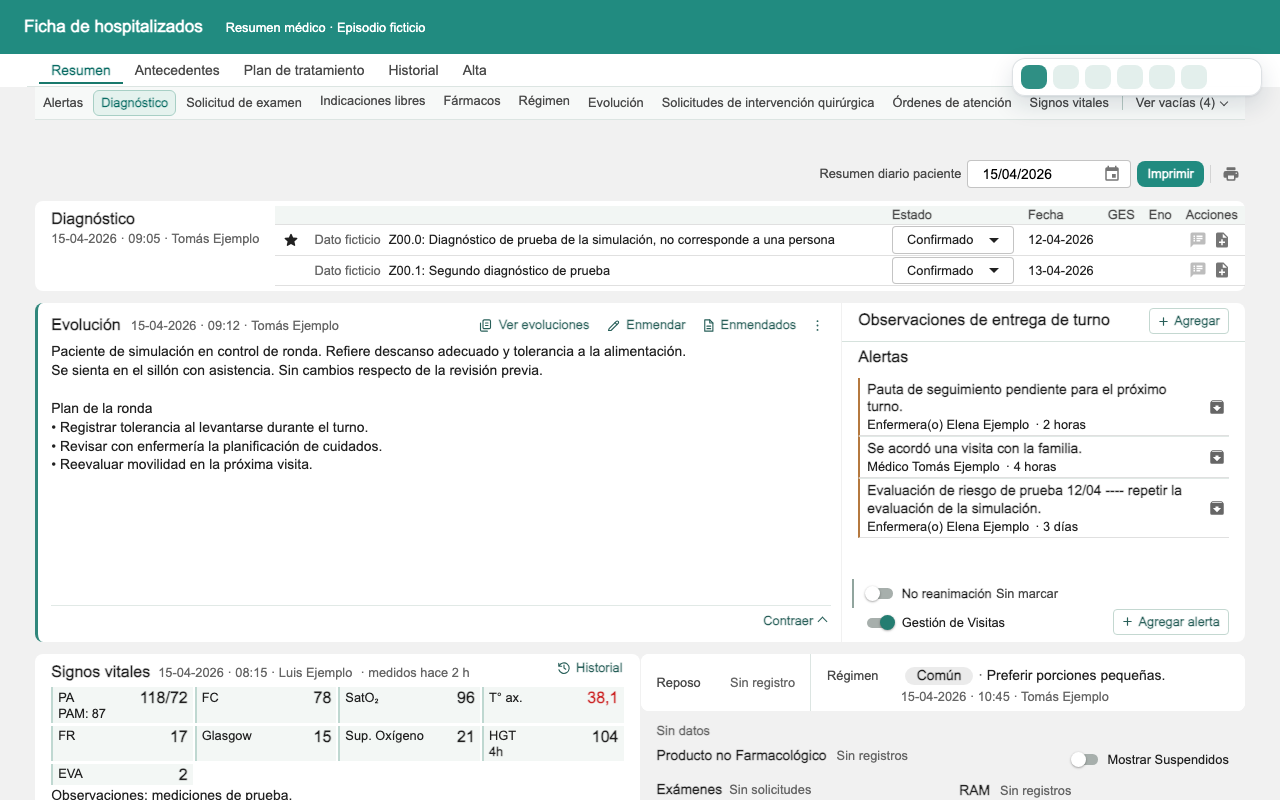
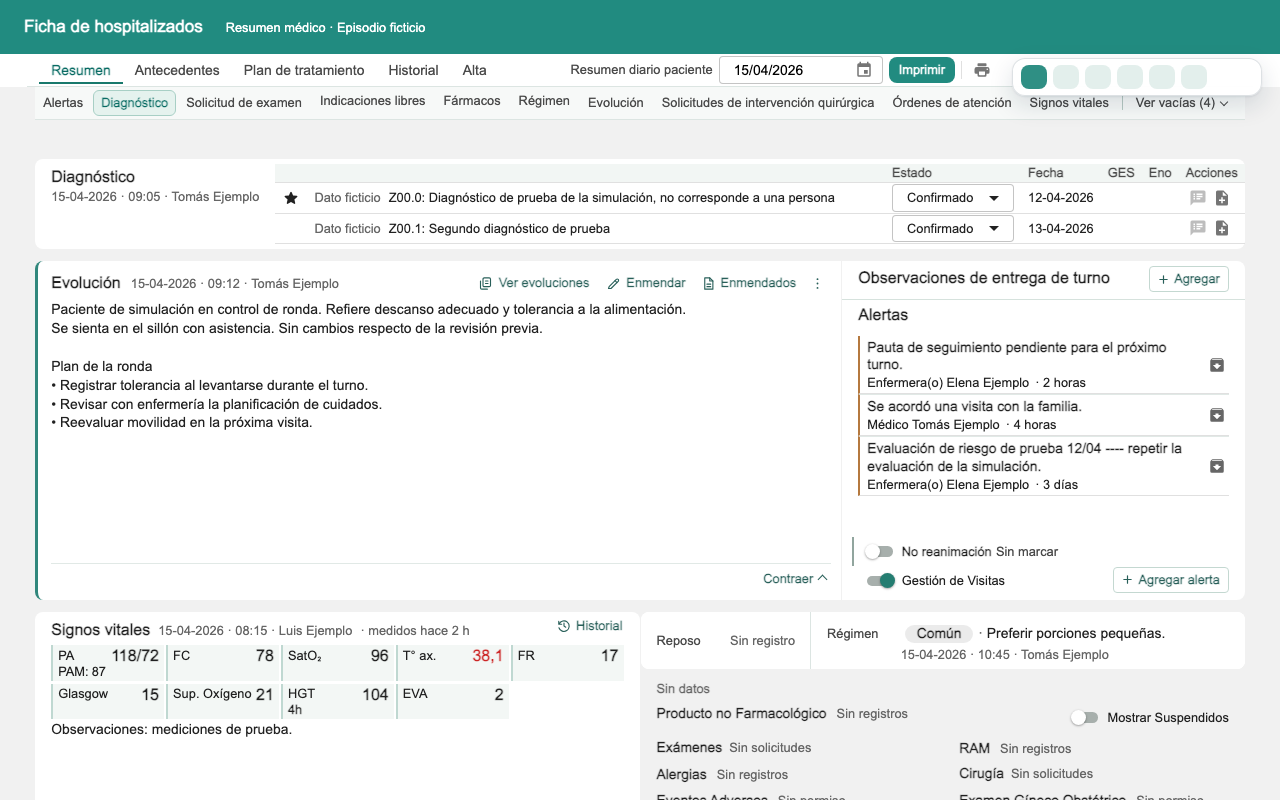
feat: ride the daily row on the tabs line and read every table at one line a row
The page exported on 26-11-2026 showed the daily date and «Imprimir» on a
line of their own with the compact view on: the floating Centro HHR bar
covers the end of the section links, so the row never fitted there. It now
rides at the end of the line of tabs, which has room at every desktop
width, and the round starts where the row was. Where that line is not
fixed, or would paint over the row, the row rides on the section links and
they scroll under it.

Procedimientos, Solicitud interconsulta, Órdenes de atención, Solicitud de
examen and Solicitudes de intervención quirúrgica take the rhythm of
Fármacos: one line a row, the state selector at the height of a line and
«Ver más» at the end of the line it cuts.

The nine vital measurements read as five and four beside the care
instructions; at 1280 px they left one alone on a third row, which the
runtime smoke rejected.

diff --git a/extension/hhr-native-ficha-presentation.js b/extension/hhr-native-ficha-presentation.js
@@ -248,8 +248,8 @@
     const links = new Map();
     let primary = null, row = null, slot = null, style = null;
     let lastTarget = null, frame = 0, disposed = false;
-    // The native date and print row, while it rides on the free end of the section links.
-    let dailyRow = null, docked = false;
+    // The native date and print row, while it rides on the line of tabs or on the section links.
+    let dailyRow = null, docked = false, tabsChecked = false, tabsCovered = false;
     const desktop = globalThis.matchMedia?.('(min-width:1100px)');
     let noteEncounter = null, noteDisclosure = null, keepNoteFolded = false;
     const noteReader = globalThis.HhrFichaNoteReader.create();
@@ -301,11 +301,11 @@
       slot?.style.removeProperty('--hhr-section-height');
       primary = null; row = null; slot = null; lastTarget = null;
     };
-    const dockProperties = ['--hhr-dock-top', '--hhr-dock-right', '--hhr-dock-height'];
+    const dockProperties = ['--hhr-dock-top', '--hhr-dock-right', '--hhr-dock-height', '--hhr-dock-layer'];
     function undock() {
       if (!docked) return;
       docked = false;
-      dailyRow?.removeAttribute('data-hhr-ficha-dock');
+      for (const name of ['data-hhr-ficha-dock', 'data-hhr-ficha-dock-line']) dailyRow?.removeAttribute(name);
       for (const name of dockProperties) dailyRow?.style.removeProperty(name);
       row?.removeAttribute('data-hhr-ficha-docked');
       row?.style.removeProperty('--hhr-dock-width');
@@ -326,14 +326,16 @@
           item.querySelector('table,img,.MuiCard-root,[aria-live],[role="alert"],[role="status"]')) return null;
       return item;
     }
-    // The links never scroll under the docked row: it docks only while everything fits on the line.
+    // On a desktop the daily row has no line of its own. It rides at the end of the line of tabs, the
+    // one line with room at every width: the floating Centro HHR bar covers the end of the section
+    // links. Without room there, or should that line paint over it, it rides on the section line, where
+    // the links scroll under it as they already scroll in a narrow window.
     function positionDailyRow() {
       const fits = () => {
         if (!dailyRow?.isConnected || !row?.isConnected || !desktop?.matches) return null;
         const items = [...row.children].filter(el => el.getClientRects().length);
         const parts = [...dailyRow.children].filter(el => el.getClientRects().length);
         if (!items.length || !parts.length) return null;
-        const linksEnd = items.at(-1).getBoundingClientRect().right;
         const width = parts.reduce((sum, el) => sum + el.getBoundingClientRect().width, 0) + 8 * (parts.length - 1);
         // The name of the field is read before it while the line has room. Short of it, the row docks
         // without the name rather than give up the line: the field keeps it for a screen reader.
@@ -342,13 +344,30 @@
         const nameWidth = name ? (named ? name.getBoundingClientRect().width : name.scrollWidth) + 6 : 0;
         const whole = named || !name ? width : width + nameWidth;
         const rail = row.getBoundingClientRect();
-        // The floating Centro HHR bar hangs over the end of this line. Stop short of it at every
+        // The floating Centro HHR bar hangs over the end of both lines. Stop short of it at every
         // scroll position: the choice uses horizontal measures only, so scrolling never moves the round.
         const bar = document.getElementById('hhr-clinical-operations-bar');
         const cover = bar?.getClientRects().length ? bar.getBoundingClientRect() : null;
         const limit = cover && cover.left < rail.right && cover.right > rail.left ? Math.min(rail.right, cover.left - 10) : rail.right;
-        const room = needed => items[0].getBoundingClientRect().left >= rail.left - 1 && linksEnd + 28 + needed <= limit;
-        return room(whole) ? {rail, width:whole, limit, short:false} : name && room(whole - nameWidth) ? {rail, width:whole - nameWidth, limit, short:true} : null;
+        const place = (line, box, end) => {
+          const short = Boolean(name) && end + 28 + whole > limit;
+          const taken = short ? whole - nameWidth : whole;
+          return {line, box, rail, width:taken, limit, short, clear:end + 28 + taken <= limit};
+        };
+        // Only a line of tabs that stays in view: one that scrolls away would take the date with it.
+        const strip = primary?.isConnected && !tabsCovered ? primary.closest('.MuiAppBar-root') || primary : null;
+        const head = strip && /^(fixed|sticky)$/.test(getComputedStyle(strip).position) ? strip : null;
+        const tabs = head ? [...primary.querySelectorAll('[role="tab"]')].filter(el => el.getClientRects().length) : [];
+        if (tabs.length) {
+          const box = head.getBoundingClientRect();
+          const onTabs = place('tabs', box, Math.max(...tabs.map(tab => tab.getBoundingClientRect().right)));
+          const layer = Number.parseInt(getComputedStyle(head).zIndex, 10);
+          if (onTabs.clear && box.height >= 30) return {...onTabs, head, layer:Number.isFinite(layer) ? layer + 1 : null};
+        }
+        // Where the links end with the line at rest: scrolling them sideways never changes the choice.
+        const onLinks = place('sections', rail, items.at(-1).getBoundingClientRect().right + row.scrollLeft);
+        // A bar unfolded over nearly the whole line leaves no end to ride on: the row keeps its native place.
+        return limit - onLinks.width - rail.left >= 160 ? onLinks : null;
       };
       const room = fits();
       if (!room) {
@@ -356,22 +375,36 @@
         if (docked) { undock(); round.repack(); }
         return;
       }
-      const values = [room.rail.top + 'px', Math.max(0, document.documentElement.clientWidth - room.limit) + 'px', room.rail.height + 'px'];
-      dockProperties.forEach((name, index) => {
-        if (dailyRow.style.getPropertyValue(name) !== values[index]) dailyRow.style.setProperty(name, values[index]);
-      });
-      const reserved = Math.ceil(room.rail.right - room.limit + room.width + 12) + 'px';
-      if (row.style.getPropertyValue('--hhr-dock-width') !== reserved) row.style.setProperty('--hhr-dock-width', reserved);
-      const mode = room.short ? 'short' : '';
-      if (docked) {
-        if (dailyRow.getAttribute('data-hhr-ficha-dock') !== mode) dailyRow.setAttribute('data-hhr-ficha-dock', mode);
-        return;
-      }
+      const set = (element, name, value) => {
+        if (value === null) element.style.removeProperty(name);
+        else if (element.style.getPropertyValue(name) !== value) element.style.setProperty(name, value);
+      };
+      const attr = (element, name, value) => {
+        if (value === null) element.removeAttribute(name);
+        else if (element.getAttribute(name) !== value) element.setAttribute(name, value);
+      };
+      const onLinks = room.line === 'sections';
+      set(dailyRow, '--hhr-dock-top', room.box.top + 'px');
+      set(dailyRow, '--hhr-dock-right', Math.max(0, document.documentElement.clientWidth - room.limit) + 'px');
+      set(dailyRow, '--hhr-dock-height', room.box.height + 'px');
+      set(dailyRow, '--hhr-dock-layer', room.layer ? String(room.layer) : null);
+      // Only the section links make room: the tabs never reach the end of their line. The room is the
+      // row with its own edges and the space a link keeps from it.
+      set(row, '--hhr-dock-width', onLinks ? Math.ceil(room.rail.right - room.limit + room.width + 28) + 'px' : null);
+      attr(row, 'data-hhr-ficha-docked', onLinks ? '' : null);
+      attr(dailyRow, 'data-hhr-ficha-dock-line', room.line);
+      attr(dailyRow, 'data-hhr-ficha-dock', room.short ? 'short' : '');
+      const settled = docked;
       docked = true;
-      dailyRow.setAttribute('data-hhr-ficha-dock', mode);
-      row.setAttribute('data-hhr-ficha-docked', '');
       // The round no longer has a leading line of its own.
-      round.repack();
+      if (!settled) round.repack();
+      // Eloísa could give the line of tabs a layer of its own. If that line paints over the date, the
+      // row leaves it for good: it is checked once, and never while a dialog covers the page.
+      if (room.line !== 'tabs' || tabsChecked || document.querySelector('[role="dialog"],.MuiBackdrop-root')) return;
+      tabsChecked = true;
+      const field = dailyRow.querySelector('form input'), spot = field?.getBoundingClientRect();
+      const top = spot && document.elementFromPoint(spot.left + spot.width / 2, spot.top + spot.height / 2);
+      if (top && !dailyRow.contains(top) && room.head.contains(top)) { tabsCovered = true; positionDailyRow(); }
     }
     const positionRow = () => {
       const bounds = slot.getBoundingClientRect();
@@ -491,7 +524,7 @@
       resizeObserver?.observe(slot);
       mark(row, 'data-hhr-ficha-sections'); mark(slot, 'data-hhr-ficha-section-slot');
       const nextDaily = compact ? findDailyRow() : null;
-      if (nextDaily !== dailyRow) { undock(); dailyRow = nextDaily; }
+      if (nextDaily !== dailyRow) { undock(); dailyRow = nextDaily; tabsChecked = tabsCovered = false; }
       // Collapsing or expanding the floating bar changes the room on this line.
       const floating = dailyRow && document.getElementById('hhr-clinical-operations-bar');
       if (floating) resizeObserver?.observe(floating);

diff --git a/extension/hhr-ficha-themes.css b/extension/hhr-ficha-themes.css
@@ -258,23 +258,24 @@
 }
 
 @media screen {
-  /* Procedimientos, Solicitud interconsulta, Solicitud de examen and Solicitudes de intervención quirúrgica
-     with records take the same rhythm: any table of theirs, whatever Eloísa wraps it in. */
+  /* Órdenes de atención, Procedimientos, Solicitud interconsulta, Solicitud de examen and Solicitudes de
+     intervención quirúrgica with records take the rhythm of Fármacos: any table of theirs, whatever Eloísa
+     wraps it in, reads at one line a row, with the tools of a row at the size they have there. */
   html[data-hhr-ficha-theme="compact"] :is(#procedureOrderEntrySection,[data-hhr-reading="care-orders"],#procedureEntrySection,#referralRequestEntrySection,#diagnosisTestEntrySection,#operationTheaterRequestEntrySection) {
     table:not(:is(dialog,[role=dialog],table) *) {
       width:100%; table-layout:auto;
       :is(th,td) {
-        padding:3px 7px !important; height:auto !important;
+        padding:var(--hhr-ficha-cell-y,3px) 7px !important; height:auto !important;
         font-size:.8125rem; line-height:1.35 !important; vertical-align:middle;
       }
-      th { padding-block:2px !important; font-size:.75rem; }
+      th { font-size:.75rem; }
       tr { height:auto !important; }
       :is(p,.MuiTypography-body1,.MuiTypography-body2) { margin-block:0; font-size:inherit; line-height:inherit; }
       [data-hhr-reading="narrow"] { width:1%; white-space:nowrap; }
-      td .MuiIconButton-root { padding:4px !important; min-width:28px; min-height:28px; }
+      td .MuiIconButton-root { padding:4px !important; min-width:24px; min-height:24px; }
       td .MuiIconButton-root svg { width:16px; height:16px; }
-      td :is(.MuiSelect-select,select:not([multiple],[size])) { padding-block:4px !important; min-height:24px; font-size:.8125rem; }
-      td .MuiInputBase-root:has(.MuiSelect-select) { height:auto !important; min-height:28px; }
+      td :is(.MuiSelect-select,select:not([multiple],[size])) { padding-block:3px !important; min-height:20px; font-size:.8125rem; }
+      td .MuiInputBase-root:has(.MuiSelect-select) { height:auto !important; min-height:26px; }
       td .MuiFormControl-root { margin-block:0; }
     }
   }
@@ -358,17 +359,33 @@
       /* A screen reader hears Eloísa's label and then this state, as it is seen. */
       &:has(> .MuiTypography-root:last-child:empty) > .MuiTypography-root:first-child::after { content:'Tratamiento sin validar' / 'Tratamiento sin validar'; }
     }
-    /* The state of a diagnosis is a native select. It keeps its arrow and its menu. */
-    #diagnosisEntrySection td .MuiInputBase-root:has([role="combobox"]) {
+    /* The state of a diagnosis, of a procedure or of an examination order is a native select. It keeps its
+       arrow and its menu, at the height of a line of its table. */
+    :is(#diagnosisEntrySection,#procedureEntrySection,#diagnosisTestEntrySection) td .MuiInputBase-root:has([role="combobox"]) {
       block-size:auto !important; min-block-size:26px; font-size:var(--hhr-ficha-text-body);
       [role="combobox"] { min-block-size:0 !important; padding-block:3px !important; }
+    }
+    /* In Procedimientos and Solicitud de examen it takes the width of its longest state, not a third of the table. */
+    :is(#procedureEntrySection,#diagnosisTestEntrySection) td {
+      .MuiFormControl-root, .MuiInputBase-root { min-inline-size:0 !important; }
+      [role="combobox"] { box-sizing:border-box; min-inline-size:7.5rem !important; padding-inline-start:8px !important; }
+      /* A text Eloísa cuts keeps «Ver más» at the end of its own line, as the last word would be: the row
+         stays one line high until it is opened. */
+      > .MuiBox-root:has(> .MuiBox-root > button[data-hhr-note-disclosure]:only-child) {
+        display:flex; align-items:baseline; gap:2px 6px; min-inline-size:0;
+        > .MuiTypography-root { display:block !important; flex:0 1 auto; min-inline-size:0; }
+        > .MuiBox-root { flex:none; margin-inline-start:auto; }
+        &:has(button[data-hhr-note-disclosure="more"]) > .MuiTypography-root { overflow:hidden; white-space:nowrap; text-overflow:ellipsis; }
+        /* Open, the whole text is read and «Ver menos» closes it from the end of its last line. */
+        &:has(button[data-hhr-note-disclosure="less"]) { align-items:last baseline; }
+      }
     }
   }
 }
 
 @media screen and (min-width:1100px) {
   html[data-hhr-ficha-theme="compact"] [data-hhr-ficha-sections] {
-    align-items:center; column-gap:2px; background:#f7f9f8;
+    align-items:center; column-gap:2px; background:var(--hhr-ficha-rail);
     [data-hhr-ficha-link] {
       box-sizing:border-box; padding-block:2px; border-radius:6px; line-height:20px !important;
       &[aria-current="location"] { border-color:#a8cfc5; background:#e5f2ee; color:var(--hhr-ficha-focus) !important; }
@@ -432,21 +449,28 @@
   }
 }
 
-/* With room after the last section link, the daily date and its print action ride on that
-   line and stay in view while the summary scrolls. The row keeps its native place otherwise. */
+/* The daily date and its print action stay in view while the summary scrolls: the row has no line
+   of its own. It rides at the end of the line of tabs, beside the floating Centro HHR bar. Should
+   that line have no room, it rides on the section links: they scroll under it and the last of them
+   still stops clear of it. */
 @media screen and (min-width:1100px) {
   html[data-hhr-ficha-theme="compact"] [data-hhr-ficha-sections][data-hhr-ficha-docked] {
-    padding-inline-end:var(--hhr-dock-width) !important;
+    padding-inline-end:var(--hhr-dock-width) !important; scroll-padding-inline-end:var(--hhr-dock-width);
   }
   html[data-hhr-ficha-theme="compact"] [data-hhr-ficha-section-slot] + [data-hhr-round="frame"] > .MuiGrid-item[data-hhr-round="before"][data-hhr-ficha-dock] {
     position:fixed !important; z-index:26;
     /* An out-of-flow item would otherwise be the last stop of the round for the Tab key. */
     reading-order:-1;
     inset-block-start:var(--hhr-dock-top); inset-inline-end:var(--hhr-dock-right);
-    box-sizing:border-box; block-size:var(--hhr-dock-height); min-height:0 !important;
+    /* The line keeps its lower rule under the row. */
+    box-sizing:border-box; block-size:calc(var(--hhr-dock-height) - 1px); min-height:0 !important;
     inline-size:max-content !important; max-inline-size:none !important;
     display:flex !important; align-items:center; justify-content:flex-end; gap:8px;
-    margin:0 !important; padding:0 6px 0 0 !important; background:transparent;
+    /* It is the end of the line: a link that scrolls there goes under it, behind a soft edge. */
+    margin:0 !important; padding:0 6px 0 10px !important; background:var(--hhr-ficha-rail);
+    box-shadow:-10px 0 8px -4px var(--hhr-ficha-rail), 10px 0 0 var(--hhr-ficha-rail);
+    /* On the line of tabs nothing scrolls under it: it takes that line's surface and paints above it. */
+    &[data-hhr-ficha-dock-line="tabs"] { z-index:var(--hhr-dock-layer,26); background:transparent; box-shadow:none; }
     > [data-hhr-update-label] { margin:0 !important; white-space:nowrap; }
     > :not([data-hhr-update-label]) { display:inline-flex; align-items:center; gap:6px; }
   }

diff --git a/extension/hhr-ficha-round-layout.css b/extension/hhr-ficha-round-layout.css
@@ -214,6 +214,12 @@
           &:has(label) { grid-column:span 6; }
         }
         [data-hhr-round="empty-request"] { display:block !important; }
+        /* In half the line the nine measurements read as five and four, never with one left alone on a third row. */
+        @container hhr-round-signs (min-width:36rem) {
+          [data-hhr-round="vitals"] #vitalSignsEntry [data-hhr-reading="vital-grid"]:has(> [data-hhr-reading="vital-tile"]:nth-child(9)) {
+            grid-template-columns:repeat(5,minmax(0,1fr)) !important;
+          }
+        }
         /* A request without records reads on the line of its neighbours. */
         [data-hhr-round="empty-request"] [data-hhr-reading="status-card"] { padding-block:2px !important; background:transparent !important; }
       }

diff --git a/extension/hhr-ficha-tokens.css b/extension/hhr-ficha-tokens.css
@@ -11,6 +11,8 @@ html[data-hhr-ficha-theme] {
   /* Surfaces and the lines that divide them. */
   --hhr-ficha-surface:#fff;
   --hhr-ficha-band:#f2f6f4;
+  /* The line of section links, and whatever rides on it. */
+  --hhr-ficha-rail:#f7f9f8;
   --hhr-ficha-line:#dce5e2;
   --hhr-ficha-line-soft:#e1e9e6;
   /* Colour by role: green for what can be pressed, amber for a clinical flag. A value out of

diff --git a/docs/estructura-eloisa.md b/docs/estructura-eloisa.md
@@ -40,6 +40,8 @@ Títulos de las tarjetas, en ese orden: Fecha estimada de alta, Observaciones de
 
 No hay `input[type=date]`. La fila tiene cuatro controles.
 
+Leída de nuevo el 26-11-2026 con la vista Compacta activa (0.48.199), a 1303 × 970 px: la fila es el primer hijo de la rejilla de la ronda, que sigue al hueco de la línea de secciones, y medía 30 px **en su propia línea**. No había subido a la línea de secciones: la barra flotante de Centro HHR tapa su final y la fila no cabía entre el último enlace y esa barra. Desde la 0.48.201 va en la línea de pestañas.
+
 ### Evolución
 
 - Cabecera: `.MuiCardHeader-content` con título y `.MuiCardHeader-subheader` «Última actualización: dd-mm-aaaa, hh:mm:ss, Médico Nombre»; `.MuiCardHeader-action` con un `div.MuiStack-root > button.MuiIconButton-sizeMedium > svg[data-testid=MoreVertRoundedIcon]`.
@@ -94,6 +96,15 @@ La ficha ficticia las dibuja con la tabla que Eloísa usa en las demás seccione
 - `.MuiCardContent-root > div.MuiPaper-root > div.MuiTableContainer-root > table` con siete columnas: una sin rótulo, Diagnóstico, Estado, Fecha, GES, Eno, Acciones.
 - Fila: `svg[data-testid=StarRoundedIcon]` en el diagnóstico principal; un `div.MuiStack-root` con una etiqueta de dos palabras (`div.MuiBox-root > span.MuiTypography-caption`) y el texto «código: descripción» en otro `span.MuiTypography-caption`; el estado en un selector de MUI (`div[role=combobox]#select-diagnosis-status`, 196 × 40 px, habilitado); la fecha; GES y Eno vacíos; y dos botones pequeños, `SpeakerNotesIcon` («Ver notas», deshabilitado) y `NoteAddIcon` («Agregar notas»).
 
+Sin registros (segunda lectura del 26-11-2026), las cuatro son `section#…EntrySection > div.MuiCard-root#…Entry` con `.MuiCardContent-root > p.MuiTypography-body2`:
+
+- `#procedureEntry`: conserva en su cabecera el interruptor «Mostrar suspendidos» (`label.MuiFormControlLabel-root` dentro de `.MuiCardHeader-action > .MuiStack-root`) y dice «No se presentan procedimientos registrados para este paciente».
+- `#referralRequestEntry`: «No se presentan interconsultas … para este paciente».
+- `#diagnosisTestEntry`: «No presenta solicitudes de examenes registradas», sin tilde.
+- `#operationTheaterRequestEntry`: los tres nodos de texto ya descritos.
+
+Esa lectura fue de un paciente sin procedimientos: la forma de Procedimientos **con registros** sigue sin exportarse.
+
 Sin diagnósticos (26-11-2026), la tarjeta no tiene tabla ni firma: `.MuiCardContent-root > p.MuiTypography-body2` «No se presentan diagnosticos registrados para este paciente», sin tilde.
 
 ### Secciones vacías o sin permiso
@@ -119,7 +130,7 @@ Las filas de Indicaciones Libres llevan las mismas tres acciones que las de Fár
 
 ### Línea de secciones
 
-Doce enlaces `div.MuiGrid-item > span.MuiBadge-root > span.MuiTypography-caption`, en este orden: Alertas, Diagnóstico, Solicitud de examen, Indicaciones (Indicación Libre), Indicaciones (Medicamento), Indicaciones (Régimen), Evolución, Solicitudes de intervención quirúrgica, Procedimientos, Órdenes de atención, Solicitud interconsulta, Signos vitales. **No es el orden de la página.**
+Doce enlaces `div.MuiGrid-item > span.MuiBadge-root > span.MuiTypography-caption`, en este orden: Alertas, Diagnóstico, Solicitud de examen, Indicaciones (Indicación Libre), Indicaciones (Medicamento), Indicaciones (Régimen), Evolución, Solicitudes de intervención quirúrgica, Procedimientos, Órdenes de atención, Solicitud interconsulta, Signos vitales. **No es el orden de la página.** Eloísa muestra solo los de las secciones que el paciente tiene: en la segunda lectura del 26-11-2026 eran siete (Alertas, Indicaciones (Indicación Libre), Indicaciones (Medicamento), Indicaciones (Régimen), Evolución, uno más y Signos vitales).
 
 ## Plan de tratamiento
 

diff --git a/docs/visual/resumen-escritorio/README.md b/docs/visual/resumen-escritorio/README.md
@@ -1,24 +1,33 @@
 # Resumen compacto en escritorio
 
-## Reposo, Régimen y lo que no tiene datos, junto a Signos vitales, en 0.48.201
+## Signos vitales en media línea, la fila diaria fuera de la ficha y tablas a una línea, en 0.48.201
 
-El responsable propuso estrechar el cuadro de Signos vitales y usar el espacio que sobra a su derecha para Reposo, Régimen y las secciones sin datos. En la página real las mediciones ocupan la mitad de su tarjeta.
+El responsable revisó la 0.48.199 en su pantalla y pidió tres cosas. Estrechar el cuadro de Signos vitales y usar el espacio que sobra a su derecha para Reposo, Régimen y las secciones sin datos. Quitar la franja de la fecha del resumen diario e «Imprimir», conservando la impresión. Y que Procedimientos se lea tan compacto como el resto.
 
 | Pantalla | 0.48.200 | 0.48.201 | Página completa |
 | --- | --- | --- | --- |
 | 1280 × 800 | [Antes](0.48.201/antes/1280-resumen.png) | [Después](0.48.201/despues/1280-resumen.png) | [Antes](0.48.201/antes/1280-resumen-completo.png) · [Después](0.48.201/despues/1280-resumen-completo.png) |
 | 1440 × 900 | [Antes](0.48.201/antes/1440-resumen.png) | [Después](0.48.201/despues/1440-resumen.png) | [Antes](0.48.201/antes/1440-resumen-completo.png) · [Después](0.48.201/despues/1440-resumen-completo.png) |
+| 1440 × 900, con registros en todas las secciones | | | [Antes](0.48.201/antes/1440-con-registros-completo.png) · [Después](0.48.201/despues/1440-con-registros-completo.png) |
 
 | Medida a 1440 × 900, 0.48.200 → 0.48.201 | |
 | --- | ---: |
+| Fecha del resumen diario e «Imprimir» | una franja de 30 px sobre la ficha → el final de la línea de pestañas |
+| Inicio de Diagnóstico | 201 → 159 px |
 | Ancho de Signos vitales | toda la línea → su primera mitad |
-| Filas de las nueve mediciones | 1 → 2 |
+| Filas de las nueve mediciones | 1 → 2, cinco y cuatro |
 | Reposo y Régimen | una línea propia bajo Signos → junto a Signos |
 | Grupo «Sin datos» | al final de la ficha, tres por fila → junto a Signos, dos por fila |
-| Alto de la página | 1923 → 1876 px |
-| Inicio de Fármacos | 819 → 865 px |
+| Inicio de Fármacos | 819 → 823 px |
+| Alto de la página | 1923 → 1817 px |
+| Fila de Procedimientos, con y sin selector de estado | 51 → 31 y 28 px |
+| Fila de Solicitud de examen | 46 → 31 px |
+| Fila de Solicitud interconsulta, Órdenes de atención y Solicitudes de intervención quirúrgica | 35 → 28 px |
+| Alto de la página con registros en todas las secciones | 2519 → 2266 px |
 
-La rejilla coloca cada sección sin datos en el primer hueco junto a los signos (`grid-auto-flow: dense`), y `hhr-ficha-round-layout.js` cuenta las líneas que ocupa esa columna para que Signos vitales las abarque. No se mueve ningún nodo.
+**Por qué la fila no subía sola.** La estructura exportada de la página el 26-11-2026 ([`estructura-eloisa.md`](../../estructura-eloisa.md)) mostró la fila en su propia línea de 30 px, con la vista activa y a 1303 px de ancho. La ficha ficticia lo reproduce: la barra flotante de Centro HHR, de 350 px, tapa el final de la línea de secciones, y entre el último enlace y esa barra no caben la fecha y sus dos botones. En la línea de pestañas sí caben, a cualquier ancho desde 1100 px. Ahí la fila deja de contar como línea de la ronda.
+
+La rejilla coloca cada sección sin datos en el primer hueco junto a los signos (`grid-auto-flow: dense`), y `hhr-ficha-round-layout.js` cuenta las líneas que ocupa esa columna para que Signos vitales las abarque. No se mueve ningún nodo: la fila diaria se sitúa con `position: fixed`, como ya hacía en la línea de secciones.
 
 ## Lo vacío junto, las tablas con un ritmo y el Resumen desde arriba, en 0.48.199
 

diff --git a/README.md b/README.md
@@ -10,7 +10,7 @@ una revisión comprobada; su copia de la extensión es una dependencia, no otra 
 
 ## Lectura de la ficha
 
-En escritorio, el resumen compacto se lee en un orden fijo, y cada bloque empieza en el mismo lugar en todos los pacientes. Primero, Diagnóstico. Después Evolución, que muestra siempre catorce líneas: una nota corta deja espacio y en una larga puedes desplazarte dentro del texto con el ratón o el teclado. A su lado, Observaciones de entrega y Alertas terminan en la misma línea que la nota, y la lista de alertas se desplaza dentro de su cuadro. Debajo, Signos vitales ocupa la primera mitad de la línea. A su lado van Reposo y Régimen y, bajo el rótulo «Sin datos», las secciones sin registros o sin permiso, dos por fila, con las solicitudes de examen y cirugía que Eloísa identifica como vacías. Las acciones de la nota llevan su nombre junto al icono: «Ver evoluciones», «Editar», «Enmiendas» y «Pautas». Las indicaciones largas se despliegan dentro de su celda. La fecha del resumen diario e «Imprimir» se sitúan en la línea de los enlaces de sección cuando caben junto a la barra flotante de Centro HHR. El campo se lee con su nombre delante, «Resumen diario paciente», y la fila no muestra quién actualizó el resumen. Si la línea no da para el nombre, la fila se acopla sin él. Una firma que repite la de Evolución o la de la tarjeta anterior se dice una sola vez, igual que la antigüedad común de los signos vitales. [Ver las capturas de escritorio](docs/visual/resumen-escritorio/README.md)
+En escritorio, el resumen compacto se lee en un orden fijo, y cada bloque empieza en el mismo lugar en todos los pacientes. Primero, Diagnóstico. Después Evolución, que muestra siempre catorce líneas: una nota corta deja espacio y en una larga puedes desplazarte dentro del texto con el ratón o el teclado. A su lado, Observaciones de entrega y Alertas terminan en la misma línea que la nota, y la lista de alertas se desplaza dentro de su cuadro. Debajo, Signos vitales ocupa la primera mitad de la línea. A su lado van Reposo y Régimen y, bajo el rótulo «Sin datos», las secciones sin registros o sin permiso, dos por fila, con las solicitudes de examen y cirugía que Eloísa identifica como vacías. Las acciones de la nota llevan su nombre junto al icono: «Ver evoluciones», «Editar», «Enmiendas» y «Pautas». Las indicaciones largas se despliegan dentro de su celda. La fecha del resumen diario e «Imprimir» no ocupan una línea del resumen: van al final de la línea de pestañas, junto a la barra flotante de Centro HHR, y siguen a la vista al desplazar la ficha. El campo se lee con su nombre delante, «Resumen diario paciente», y la fila no muestra quién actualizó el resumen. Si la línea no da para el nombre, la fila se acopla sin él. Donde la línea de pestañas no queda fija o taparía la fila, esta va al final de la línea de enlaces de sección, y los enlaces que no caben se desplazan bajo ella. Una firma que repite la de Evolución o la de la tarjeta anterior se dice una sola vez, igual que la antigüedad común de los signos vitales. [Ver las capturas de escritorio](docs/visual/resumen-escritorio/README.md)
 
 En la columna derecha, «Agregar», junto al título de Observaciones de entrega, y «Agregar alerta» abren el campo de Eloísa. Si ya hay texto, el campo queda visible. En las tablas de tratamiento, una línea acompaña la fila que se recorre con el teclado o el puntero.
 

diff --git a/docs/estilo-ficha.md b/docs/estilo-ficha.md
@@ -17,6 +17,8 @@ Esta guía reúne las reglas con las que se rediseñaron el Resumen compacto, el
 11. **Lo vacío es una línea, y las líneas van juntas.** Una sección sin registros o sin permiso dice su nombre y su estado en una línea, la misma para todas, tenga tabla o no cuando está llena. En la ronda de escritorio esas líneas forman un grupo, bajo «Sin datos», sin superficie propia y con el estado en dos palabras («Sin registros», «Sin solicitudes», «Sin permiso»); la frase de Eloísa sigue en la página. Con signos vitales, el grupo va a su lado, bajo Reposo y Régimen; sin ellos, cierra el Resumen. Una sección vacía que vale la pena leer, como Diagnóstico, no se pliega con las demás: queda a la vista en el grupo.
 12. **El foco que nadie pidió no abre nada ni mueve la página.** Eloísa da el foco a algunos campos al cargar. Un editor plegado se abre por su botón o por un borrador, nunca por ese foco, y lo suelta para que la siguiente tecla no escriba donde nadie mira. La página había seguido a ese foco, lejos en la disposición de Eloísa: mientras nadie se haya desplazado, pulsado ni escrito, vuelve a su inicio.
 13. **Cada bloque tiene su lugar.** La ronda de escritorio se lee en un orden fijo: Diagnóstico; Evolución con Observaciones de entrega y Alertas a su lado; y Signos vitales en media línea, con Reposo, Régimen y las secciones sin datos en la otra media. La rejilla coloca cada sección sin datos en el primer hueco junto a los signos, y el lector de la ronda cuenta las líneas que esa columna ocupa. La nota muestra siempre las mismas líneas (`--hhr-ficha-note-lines`) y las tarjetas a su lado terminan con ella. Lo que cambia de un paciente a otro se desplaza dentro de su cuadro: lo que sigue empieza en la misma línea para todos.
+14. **Una herramienta de la página no ocupa una línea de la ficha.** La fecha del resumen diario e «Imprimir» van al final de la línea de pestañas, junto a la barra flotante de Centro HHR, y la ficha empieza donde estaba su fila. La línea de pestañas es la única con sitio en todos los anchos: la barra flotante tapa el final de la línea de secciones. Si esa línea no queda fija, o pintaría encima de la fila, la fila va al final de la línea de secciones y los enlaces se desplazan bajo ella. Nunca vuelve a ser una franja.
+15. **Una tabla, un ritmo.** Las tablas del Resumen se leen a una línea por fila, con las herramientas de fila a 24 px, como Fármacos. El selector de un estado mide lo que una línea y lo que su estado más largo; un texto que Eloísa corta lleva «Ver más» al final de su propia línea, no debajo.
 
 ## Dónde vive cada cosa
 

diff --git a/CHANGELOG.md b/CHANGELOG.md
@@ -3,8 +3,11 @@
 ## 0.48.201
 
 - En el Resumen de la vista Compacta, en escritorio, Signos vitales ocupa la primera mitad de su línea y deja la otra mitad a Reposo y Régimen y, debajo, al grupo «Sin datos»: las secciones sin registros o sin permiso, dos por fila, con las solicitudes de examen y de cirugía sin registros entre ellas. Antes Signos vitales ocupaba todo el ancho, Reposo y Régimen una línea aparte y el grupo «Sin datos» el final de la ficha.
-- Con eso la ficha es más corta y «sin alergias registradas» o «sin RAM» se leen en la primera parte del Resumen, sin llegar al final. Fármacos empieza 46 px más abajo.
-- Las mediciones de Signos vitales se reparten en dos o tres filas dentro de su mitad. Sin Reposo, Régimen ni secciones sin datos, Signos vitales conserva todo el ancho.
+- Con eso «sin alergias registradas» o «sin RAM» se leen en la primera parte del Resumen, sin llegar al final. Fármacos empieza donde empezaba.
+- Las nueve mediciones de Signos vitales se leen en dos filas dentro de su mitad, cinco y cuatro. Sin Reposo, Régimen ni secciones sin datos, Signos vitales conserva todo el ancho.
+- La fecha del resumen diario, «Imprimir» y el icono de impresión dejan de ocupar una franja propia sobre la ficha. Van al final de la línea de pestañas (Resumen, Antecedentes, Plan de tratamiento…), a la izquierda de la barra de Centro HHR, y siguen a la vista al desplazar la ficha. Hasta ahora solo subían a la línea de enlaces de sección cuando cabían, y con la barra de Centro HHR desplegada casi nunca cabían: en la ficha del responsable la franja seguía ahí. El resumen empieza 42 px más arriba.
+- Si Eloísa cambiara su línea de pestañas (que deje de estar fija o que tape la fila), la fecha e «Imprimir» van al final de la línea de enlaces de sección; los enlaces que no caben se desplazan bajo ellas y el último queda siempre a la vista.
+- Procedimientos se lee tan denso como Fármacos: una línea por fila (de 28 a 31 px en lugar de 51), el selector de «Estado» a la altura de la línea y al ancho de su texto, y «Ver más» al final de la línea del fundamento en lugar de debajo. Solicitud interconsulta, Órdenes de atención, Solicitud de examen y Solicitudes de intervención quirúrgica toman el mismo ritmo. A 1440 × 900 la ficha completa mide 106 px menos que en la 0.48.200, y 253 px menos con registros en todas las secciones.
 - Una sección plegada tras «Ver vacías» ya no deja un hueco entre las demás.
 
 ## 0.48.200
